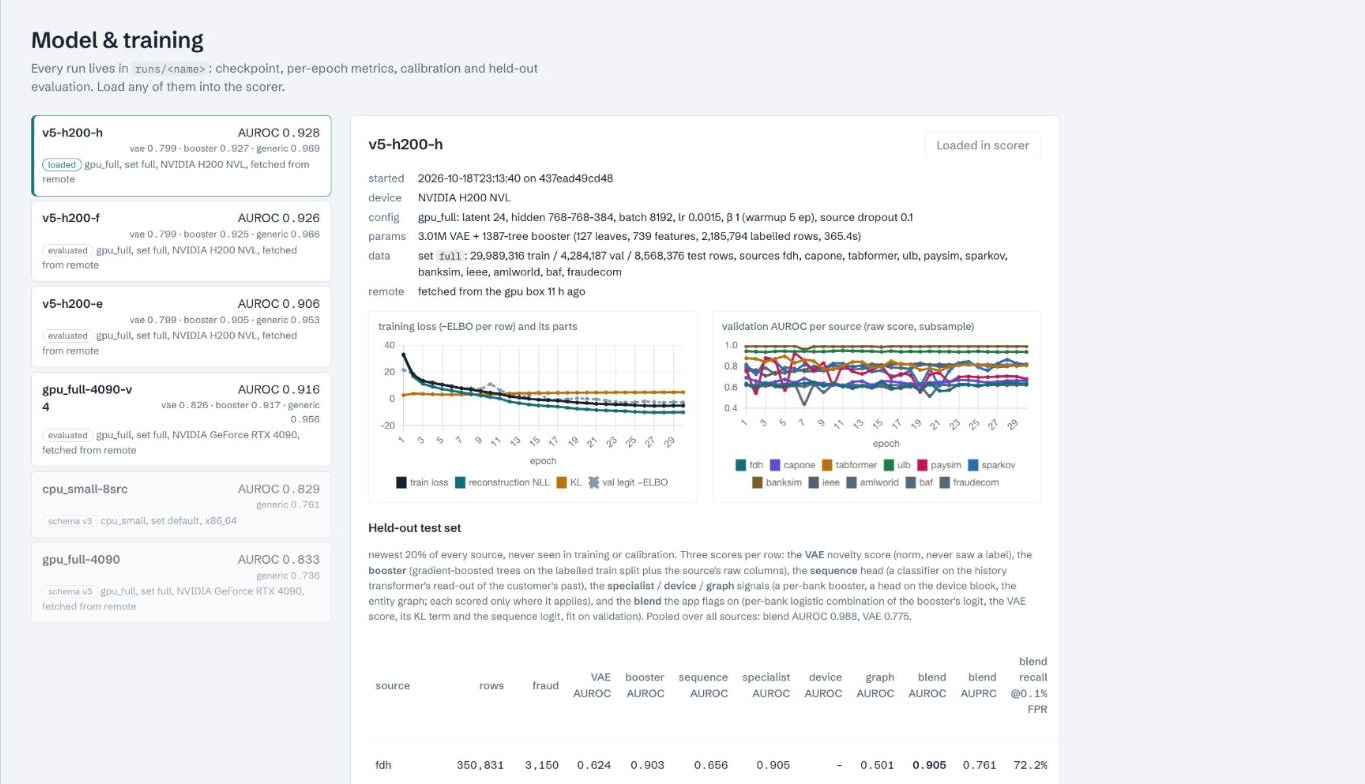
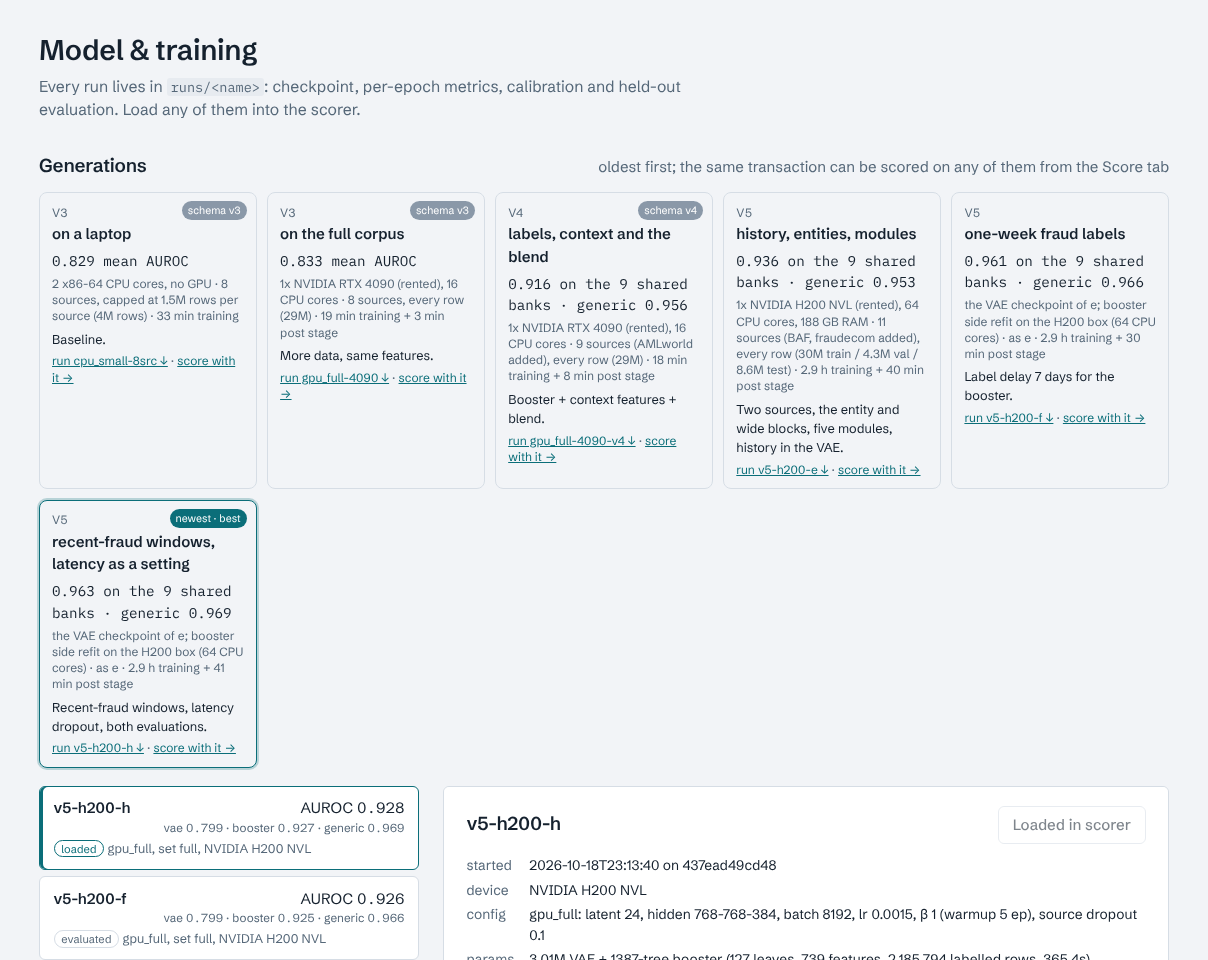
ui screenshots for the picker, the generations and the story

diff --git a/fraudvae/web/index.html b/fraudvae/web/index.html
@@ -57,7 +57,7 @@
             </label>
             <label class="field check">
               <span>Compare across generations</span>
-              <span class="checkline"><input type="checkbox" name="compare_all" id="compare-all"> score it on every generation and show them side by side</span>
+              <span class="checkline"><input type="checkbox" name="compare_all" id="compare-all"> score it on every generation, side by side</span>
               <small>Each extra generation adds a fraction of a second.</small>
             </label>
             <label class="field">

diff --git a/README.md b/README.md
@@ -40,8 +40,9 @@ them - and, since v5, the signals of five more modules - into one probability:
 ![score tab](docs/img/score.png)
 
 The other tabs: [data explorer](docs/img/data.png), [model & runs](docs/img/model.png)
-(and its [per-source results table](docs/img/model_results.png)),
-[compute / remote training](docs/img/compute.png), [how it works](docs/img/explain.png).
+(the generations and their [per-source results table](docs/img/model_results.png)),
+[compute / remote training](docs/img/compute.png), [how it works](docs/img/explain.png),
+[the story](docs/img/story.png).
 
 ## Quick start
 
